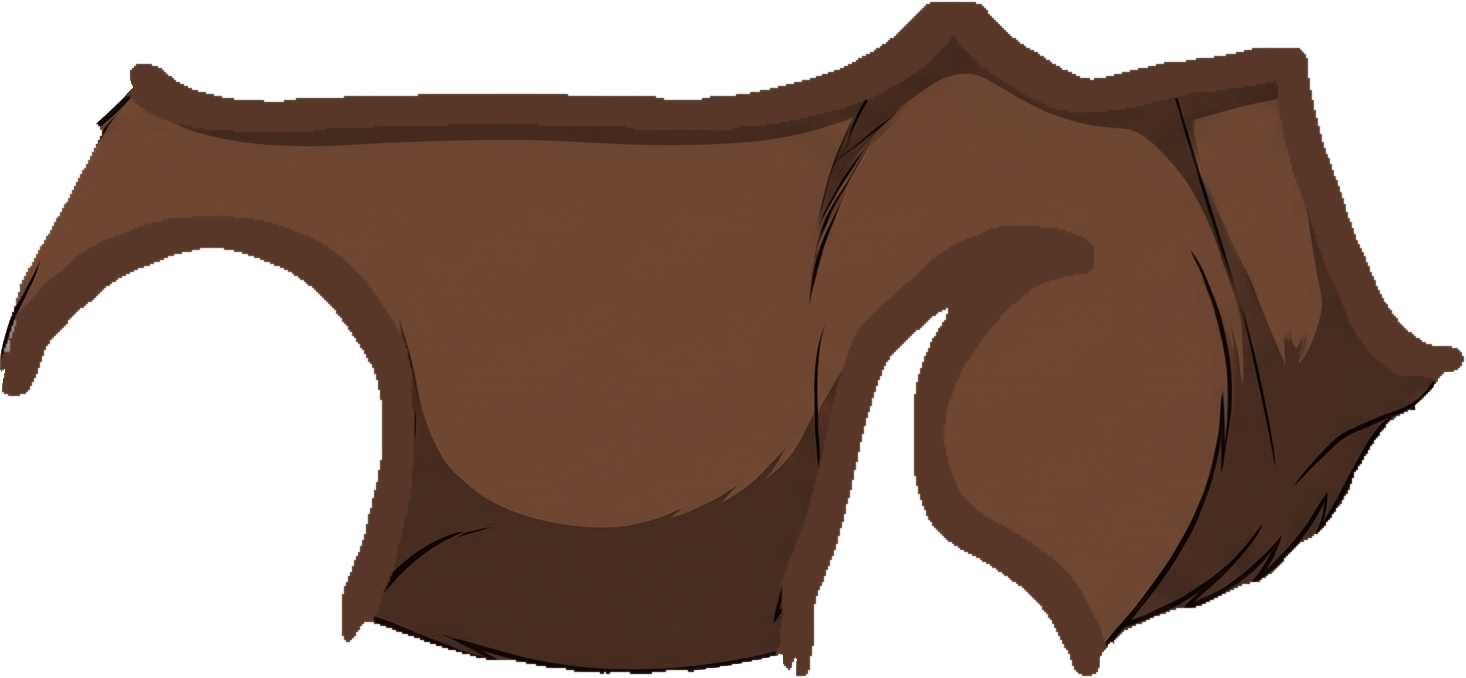
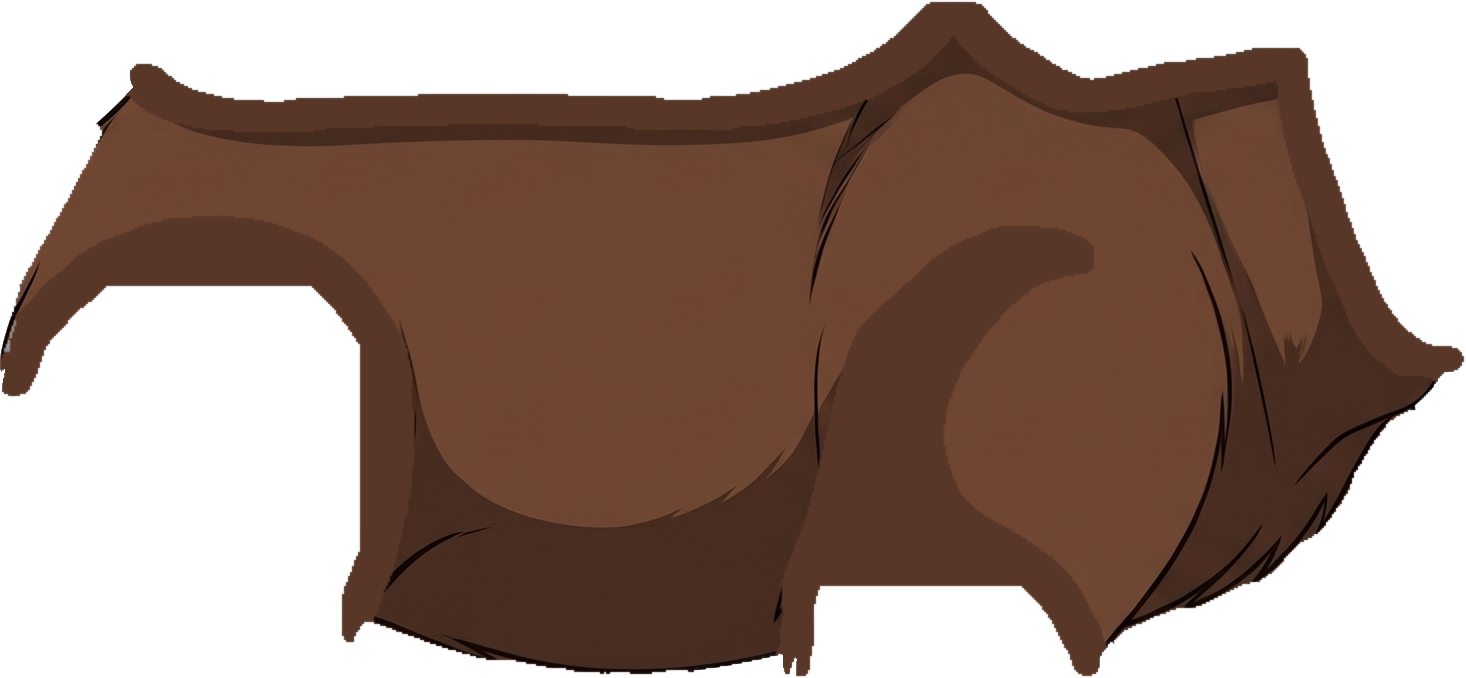
Straighter jaguar front leg, and fill the bear's body under its near legs
The jaguar's near front foot now lands further ahead, so the leg stays
extended instead of folding into a sharp arc. The cutter fills a body part
in under near legs drawn in front of it, so the bear's chest no longer shows
a gap when its front leg swings.

Changed region(s): [[0.5525, 0.4646, 0.706, 0.8673], [0.0614, 0.3407, 0.2149, 0.4336], [0.2456, 0.5265, 0.2763, 0.8053]]

diff --git a/tools/cut_from_map.py b/tools/cut_from_map.py
@@ -51,6 +51,9 @@ OVERLAP = 25          # px a part reaches under the parts in front of it
 # Far-side legs swing their whole thigh behind the body, so they reach deeper
 DEEP_OVERLAP = 60
 SEAM = 6              # px of a part's own edge, along the parts in front, repainted too
+# How wide a notch a near leg can cut into the body and still get filled in
+# under it (half-size px, so about 4x this across in the frame)
+HULL = 50
 # A pixel counts as drawing if it's darker than MAX_LUM or more colourful
 # than MIN_CHROMA. A ground shadow is light and nearly grey (brightness
 # 200-230, colourfulness under 9), so these leave it out; everything inside
@@ -223,7 +226,8 @@ def grow_up(mask, steps):
     return mask
 
 
-def layer(i, source, sil, masks, fills=(), deep=False, skip=None, behind=None, leg=False):
+def layer(i, source, sil, masks, fills=(), deep=False, skip=None, behind=None, leg=False,
+          covered=None):
     """Cut part number i out of the source drawing, as a cropped RGBA image
     plus its bounding box in the frame.
     fills: (covering parts' mask, edit image) pairs, to paint in what they hide.
@@ -233,7 +237,9 @@ def layer(i, source, sil, masks, fills=(), deep=False, skip=None, behind=None, l
     that stays on show, so it gets rounded off.
     leg: legs reach straight UP into the body, not sideways. A piece beside
     the leg's top, swinging with it around the hip, would poke out below the
-    belly."""
+    belly.
+    covered: near legs drawn in front of this part; the body is filled in
+    under them (see HULL)."""
     # reach under everything drawn in front of this part
     front = Image.new("L", HALF, 0)
     for m in masks[i + 1:]:
@@ -252,6 +258,18 @@ def layer(i, source, sil, masks, fills=(), deep=False, skip=None, behind=None, l
     # leave pinholes along a jagged border.
     reach = ImageChops.lighter(masks[i], reach).filter(ImageFilter.GaussianBlur(3)).point(lambda v: 255 if v > 127 else 0)
     reach = ImageChops.multiply(reach, under)
+    if covered is not None and covered.getbbox():
+        # Under near legs in front, fill the body in out to where its outline
+        # would run without the leg: grow the part, then shrink it back by the
+        # same amount ("closing"). Notches the legs cut into the body fill in;
+        # its outer edge stays where it was. When a leg swings away, its big
+        # shoulder no longer leaves an empty hole in the chest.
+        closed = ImageChops.lighter(masks[i], reach)
+        for _ in range(HULL):
+            closed = closed.filter(ImageFilter.MaxFilter(3))
+        for _ in range(HULL):
+            closed = closed.filter(ImageFilter.MinFilter(3))
+        reach = ImageChops.lighter(reach, ImageChops.multiply(closed, covered))
     # keep only what's still attached to the part: reaching across a gap can
     # grab loose bits of a neighbour (e.g. a sliver of the other leg's outline)
     whole = main_regions(ImageChops.multiply(ImageChops.lighter(masks[i], reach), sil.resize(HALF)))
@@ -377,8 +395,14 @@ def cut(creature, map_path, preview_dir=None, fills=None, variants=None):
             for j in range(i):
                 if names[j].startswith("near-") and names[j].endswith("-leg"):
                     behind = ImageChops.lighter(behind, masks[j])
+        # near legs drawn in front of a body part
+        covered = Image.new("L", HALF, 0)
+        if not name.endswith("-leg"):
+            for j in range(i + 1, len(names)):
+                if names[j].startswith("near-") and names[j].endswith("-leg"):
+                    covered = ImageChops.lighter(covered, masks[j])
         save(name, *layer(i, original, sil, masks, part_fills, deep=far, skip=skip, behind=behind,
-                          leg=name.endswith("-leg")))
+                          leg=name.endswith("-leg"), covered=covered))
 
     for name, (part, edit_path, edit_map) in (variants or {}).items():
         edit = Image.open(edit_path).convert("RGB").resize(FRAME, Image.LANCZOS)

diff --git a/docs/adr/0011-second-creature-legs-tucked-behind-the-body.md b/docs/adr/0011-second-creature-legs-tucked-behind-the-body.md
@@ -77,6 +77,15 @@ were needed after the concept: the colour map and a blink.
   part.** One average colour for the whole torso (tan with dark spots) showed
   as a dark line under the cream throat. Nearby colours, leaving out ink lines
   and spots, made it disappear.
+- **A big shoulder in front of the body leaves a hole when it swings.** The
+  bear's near front leg covered a deep notch of its chest, and the body had
+  nothing there. The cutter now fills the body in under near legs in front of
+  it, out to where its outline would run without the leg (a "closing": grow
+  the shape, then shrink it back by the same amount).
+- **A leg that should look straight needs its foot planted far ahead.** The
+  jaguar's near front leg folded into a sharp arc because its foot landed
+  close under the hip. Moving its `reach` forward (and a shorter stride) keeps
+  it extended, as in the drawing.
 - AI edits come back slightly larger than the drawing (2400 × 1792 for a
   1024 × 768 drawing, a 0.5% different shape). Scaled into the frame, they
   still lined up.
